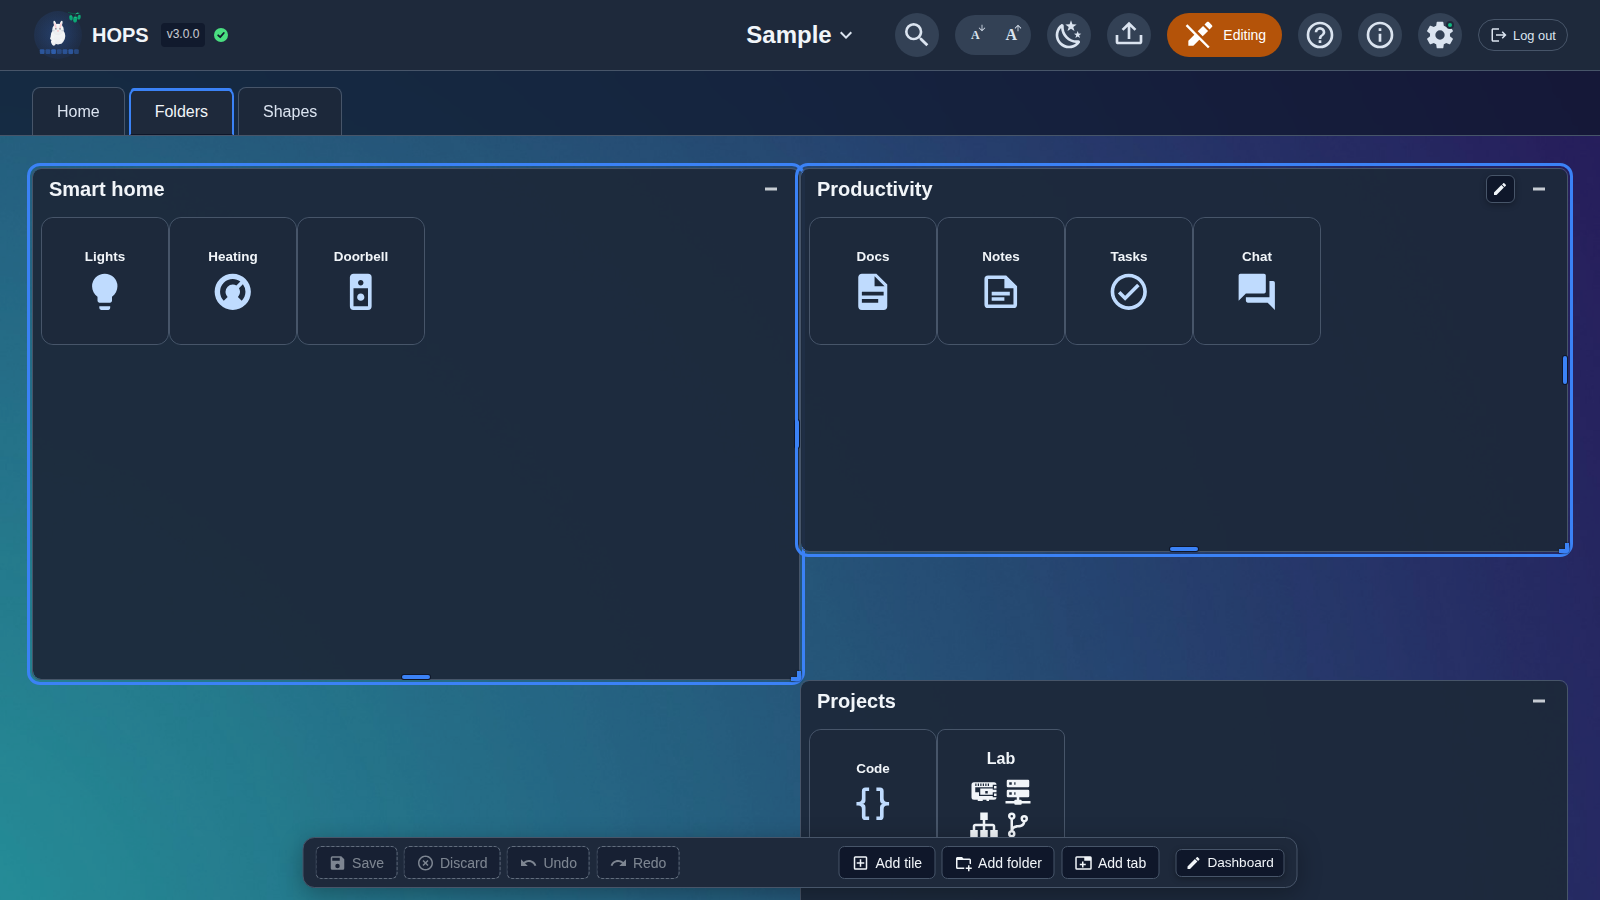
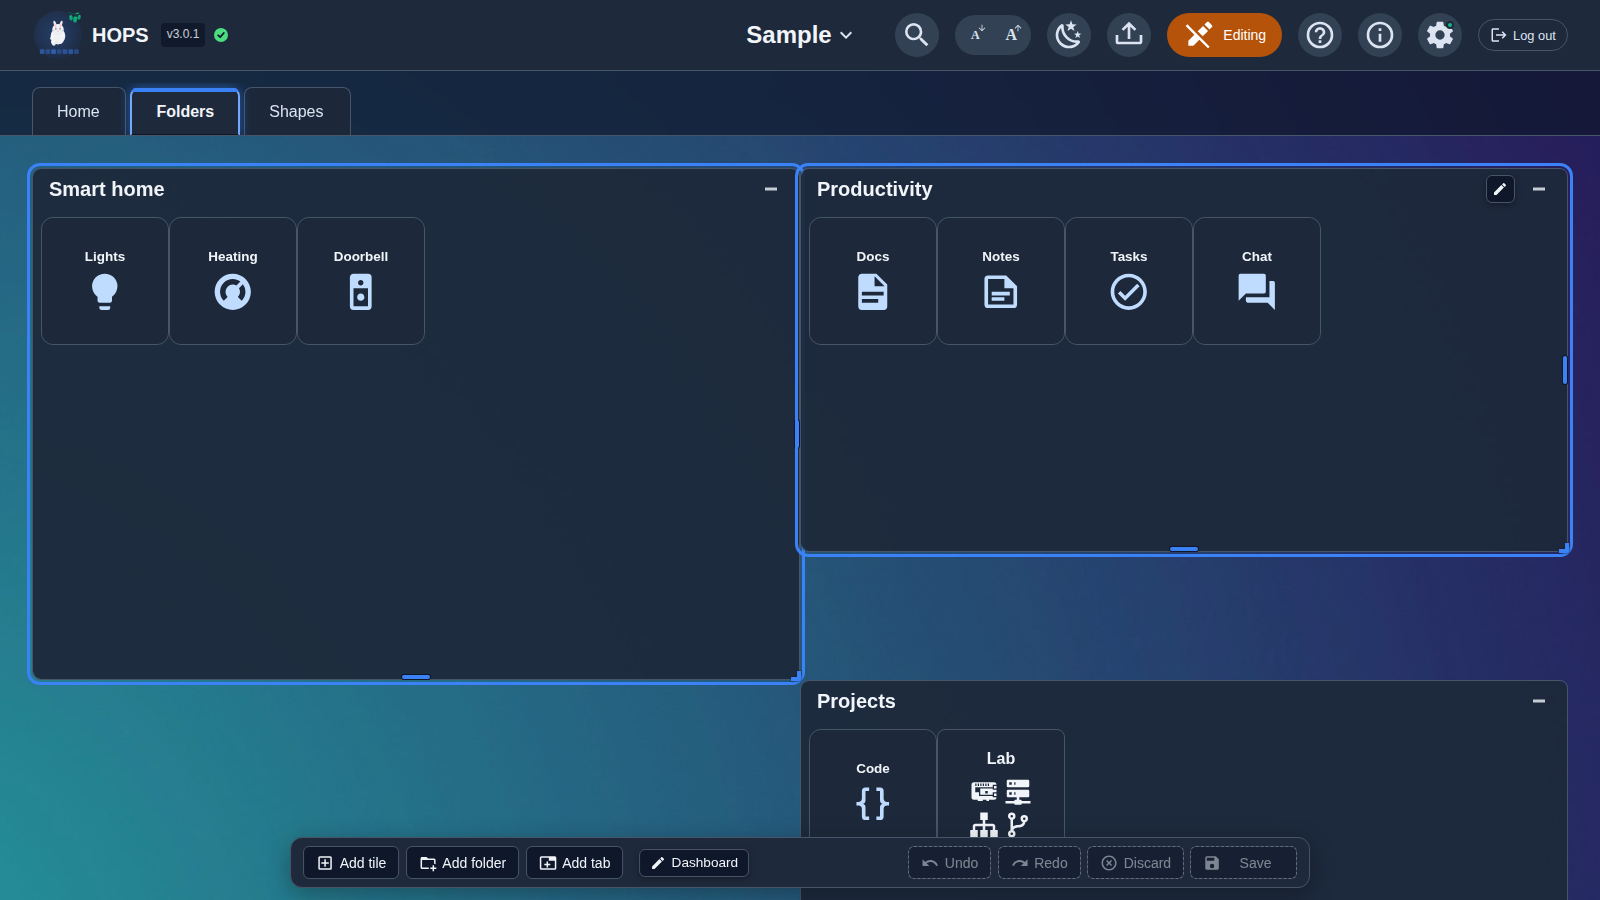
fix: Save sits at the right-hand end everywhere; stays in view on a phone

Changed region(s): [[0.1562, 0.9333, 0.4688, 0.9956], [0.5312, 0.9333, 0.8125, 0.9644], [0.0625, 0.0933, 0.1875, 0.1556]]

diff --git a/frontend/src/lib/components/editor/EditToolbar.svelte b/frontend/src/lib/components/editor/EditToolbar.svelte
@@ -147,6 +147,42 @@
 <div class="edit-toolbar" role="toolbar" aria-label="Editing" bind:this={barEl}>
   <div class="controls">
     <div class="group">
+      <button type="button" class="tb" onclick={() => openDialog({ kind: 'tile', to: currentContainer(tabId) })}>
+        <Icon icon="mdi:plus-box-outline" width="18" /> Add tile
+      </button>
+      <button type="button" class="tb" onclick={() => openDialog({ kind: 'folder', to: currentContainer(tabId) })}>
+        <Icon icon="mdi:folder-plus-outline" width="18" /> Add folder
+      </button>
+      <button type="button" class="tb" onclick={onAddTab}>
+        <Icon icon="mdi:tab-plus" width="18" /> Add tab
+      </button>
+    </div>
+    {#if onEditDashboard}
+      <div class="group">
+        <!-- The dashboard's own edit handle: one labelled pencil, always shown while editing. -->
+        <EditHandle name="Dashboard" label="Dashboard" placement="inline" onEdit={onEditDashboard} />
+      </div>
+    {/if}
+    <!-- Save is last, as in every dialog: the main action sits at the right-hand end. -->
+    <div class="group">
+      <!-- Its space is always reserved (an invisible copy, drawn by CSS), so no button moves when it appears. -->
+      <span class="unsaved-slot">
+        {#if $dirty}
+          <span class="unsaved" role="status">
+            <Icon icon="mdi:circle-medium" width="18" />Unsaved changes
+          </span>
+        {/if}
+      </span>
+      <button type="button" class="tb" onclick={undo} disabled={!canUndo}
+        title={!canUndo && $session?.undoDropped ? `Nothing more to undo: Undo keeps your last ${UNDO_CAP} changes` : 'Undo (Ctrl+Z)'}>
+        <Icon icon="mdi:undo" width="18" /> Undo
+      </button>
+      <button type="button" class="tb" onclick={redo} disabled={!canRedo} title="Redo (Ctrl+Shift+Z or Ctrl+Y)">
+        <Icon icon="mdi:redo" width="18" /> Redo
+      </button>
+      <button type="button" class="tb" onclick={() => discard()} disabled={!$dirty || saving} title="Discard all unsaved changes">
+        <Icon icon="mdi:close-circle-outline" width="18" /> Discard
+      </button>
       <span class="save-slot">
         <!-- While a save is in flight it says so (a big dashboard on a small server takes seconds). Both
              labels share one cell, so the button keeps its width and nothing beside it moves. -->
@@ -164,42 +200,7 @@
         <!-- Drawn only while its flourish plays (invisible otherwise); the toast says "Changes saved" either way. -->
         <span class="saved-tick" data-saved-tick aria-hidden="true" bind:this={tickEl}><Icon icon="mdi:check-circle" width="20" /></span>
       </span>
-      <button type="button" class="tb" onclick={() => discard()} disabled={!$dirty || saving} title="Discard all unsaved changes">
-        <Icon icon="mdi:close-circle-outline" width="18" /> Discard
-      </button>
-      <button type="button" class="tb" onclick={undo} disabled={!canUndo}
-        title={!canUndo && $session?.undoDropped ? `Nothing more to undo: Undo keeps your last ${UNDO_CAP} changes` : 'Undo (Ctrl+Z)'}>
-        <Icon icon="mdi:undo" width="18" /> Undo
-      </button>
-      <button type="button" class="tb" onclick={redo} disabled={!canRedo} title="Redo (Ctrl+Shift+Z or Ctrl+Y)">
-        <Icon icon="mdi:redo" width="18" /> Redo
-      </button>
-      <!-- Its space is always reserved (an invisible copy, drawn by CSS), so no button moves when it appears. -->
-      <span class="unsaved-slot">
-        {#if $dirty}
-          <span class="unsaved" role="status">
-            <Icon icon="mdi:circle-medium" width="18" />Unsaved changes
-          </span>
-        {/if}
-      </span>
     </div>
-    <div class="group">
-      <button type="button" class="tb" onclick={() => openDialog({ kind: 'tile', to: currentContainer(tabId) })}>
-        <Icon icon="mdi:plus-box-outline" width="18" /> Add tile
-      </button>
-      <button type="button" class="tb" onclick={() => openDialog({ kind: 'folder', to: currentContainer(tabId) })}>
-        <Icon icon="mdi:folder-plus-outline" width="18" /> Add folder
-      </button>
-      <button type="button" class="tb" onclick={onAddTab}>
-        <Icon icon="mdi:tab-plus" width="18" /> Add tab
-      </button>
-    </div>
-    {#if onEditDashboard}
-      <div class="group">
-        <!-- The dashboard's own edit handle: one labelled pencil, always shown while editing. -->
-        <EditHandle name="Dashboard" label="Dashboard" placement="inline" onEdit={onEditDashboard} />
-      </div>
-    {/if}
   </div>
   <!-- A failed background image per level: compact, inside the toolbar, never moving the page. -->
   <div class="notes">
@@ -385,9 +386,20 @@
       gap: 0.5rem;
       padding-bottom: 2px;
     }
+    /* The groups step aside so Save can stay pinned to the right of the whole row, however far it
+       is scrolled: the main action is never off-screen. */
     .group {
-      flex-wrap: nowrap;
+      display: contents;
+    }
+    .group > :global(*) {
       flex: none;
+    }
+    .save-slot {
+      position: sticky;
+      right: 0;
+      z-index: 1;
+      padding-left: 0.5rem;
+      background: var(--bg-secondary);
     }
     .tb {
       padding: 0.4rem 0.6rem;

diff --git a/frontend/src/routes/settings/global/+page.svelte b/frontend/src/routes/settings/global/+page.svelte
@@ -507,13 +507,11 @@
                 <div class="error inline">{perKeyError[s.key]}</div>
               {/if}
               <div class="row-actions">
-                <Button
-                  variant="primary"
-                  onclick={() => save(s)}
-                  disabled={!isDirty(s) || savingKey === s.key}
-                >
-                  {savingKey === s.key ? 'Saving…' : 'Save'}
-                </Button>
+                {#if isHoursDays(s) ? draftHours(s) !== Number(s.default) : String(drafts[s.key]) !== shown(s, s.default)}
+                  <Button variant="ghost" onclick={() => resetToDefault(s)}>
+                    Reset to default
+                  </Button>
+                {/if}
                 <Button
                   variant="ghost"
                   onclick={() => reset(s)}
@@ -521,11 +519,13 @@
                 >
                   Revert
                 </Button>
-                {#if isHoursDays(s) ? draftHours(s) !== Number(s.default) : String(drafts[s.key]) !== shown(s, s.default)}
-                  <Button variant="ghost" onclick={() => resetToDefault(s)}>
-                    Reset to default
-                  </Button>
-                {/if}
+                <Button
+                  variant="primary"
+                  onclick={() => save(s)}
+                  disabled={!isDirty(s) || savingKey === s.key}
+                >
+                  {savingKey === s.key ? 'Saving…' : 'Save'}
+                </Button>
               </div>
             </div>
           </div>
@@ -734,6 +734,7 @@
 
   .row-actions {
     display: flex;
+    justify-content: flex-end;
     gap: 0.5rem;
     flex-wrap: wrap;
   }

diff --git a/frontend/src/lib/components/admin/DashboardList.svelte b/frontend/src/lib/components/admin/DashboardList.svelte
@@ -201,12 +201,12 @@
           </div>
         </div>
         <div class="edit-actions">
+          <button onclick={cancelNew} class="btn-secondary btn-sm">
+            Cancel
+          </button>
           <button onclick={saveNew} class="btn-primary btn-sm" disabled={!newName.trim() || busy}>
             <Icon icon="mdi:check" width="18" />
             Save
-          </button>
-          <button onclick={cancelNew} class="btn-secondary btn-sm">
-            Cancel
           </button>
         </div>
       </div>
@@ -240,12 +240,12 @@
                 </div>
               </div>
               <div class="edit-actions">
+                <button onclick={cancelEdit} class="btn-secondary btn-sm">
+                  Cancel
+                </button>
                 <button onclick={() => saveEdit(dashboard)} class="btn-primary btn-sm" disabled={busy}>
                   <Icon icon="mdi:check" width="18" />
                   Save
-                </button>
-                <button onclick={cancelEdit} class="btn-secondary btn-sm">
-                  Cancel
                 </button>
               </div>
             </div>
@@ -443,6 +443,7 @@
 
   .edit-actions {
     display: flex;
+    justify-content: flex-end;
     gap: 0.5rem;
   }
 

diff --git a/frontend/src/lib/components/editor/EditToolbar.test.ts b/frontend/src/lib/components/editor/EditToolbar.test.ts
@@ -52,6 +52,13 @@ describe('EditToolbar', () => {
     expect((screen.getByRole('button', { name: /^Undo/ }) as HTMLButtonElement).disabled).toBe(false);
   });
 
+  it('Save is the last button, at the right-hand end, as in every dialog', () => {
+    render(EditToolbar, { tabId: 't1', onAddTab: vi.fn(), onEditDashboard: vi.fn() });
+    const buttons = within(screen.getByRole('toolbar', { name: 'Editing' })).getAllByRole('button');
+    expect(buttons.at(-1)).toBe(screen.getByRole('button', { name: /^Save/ }));
+    expect(buttons.at(-2)).toBe(screen.getByRole('button', { name: /^Discard/ }));
+  });
+
   it('Undo / Redo buttons step the draft', async () => {
     render(EditToolbar, { tabId: 't1', onAddTab: vi.fn() });
     rename('a', 'Changed');

diff --git a/frontend/src/routes/settings/icons/+page.svelte b/frontend/src/routes/settings/icons/+page.svelte
@@ -489,8 +489,8 @@
               <form class="rename" onsubmit={(e) => { e.preventDefault(); void saveRename(c); }}>
                 <label class="sr-only" for={`rename-${c.id}`}>New name for {c.name}</label>
                 <input id={`rename-${c.id}`} type="text" bind:value={renameText} maxlength="100" />
-                <Button type="submit" size="small" loading={catBusy}>Save</Button>
                 <Button variant="ghost" size="small" onclick={() => (renamingId = null)}>Cancel</Button>
+                <Button type="submit" size="small" loading={catBusy}>Save</Button>
               </form>
               {#if renameError}<p class="field-error" role="alert">{renameError}</p>{/if}
             {:else}

diff --git a/frontend/src/routes/add/+page.svelte b/frontend/src/routes/add/+page.svelte
@@ -421,8 +421,8 @@
         {/if}
 
         <div class="actions">
-          <button type="submit" class="btn-primary" disabled={busy}>{busy ? 'Adding…' : 'Add'}</button>
           <button type="button" class="btn-secondary" onclick={leave}>Cancel</button>
+          <button type="submit" class="btn-primary" disabled={busy}>{busy ? 'Adding…' : 'Add'}</button>
         </div>
       </form>
       {#if closeNote}<p class="muted" role="status">{closeNote}</p>{/if}
@@ -485,6 +485,7 @@
   }
   .actions {
     display: flex;
+    justify-content: flex-end;
     gap: 0.6rem;
     margin-top: 1rem;
     flex-wrap: wrap;
